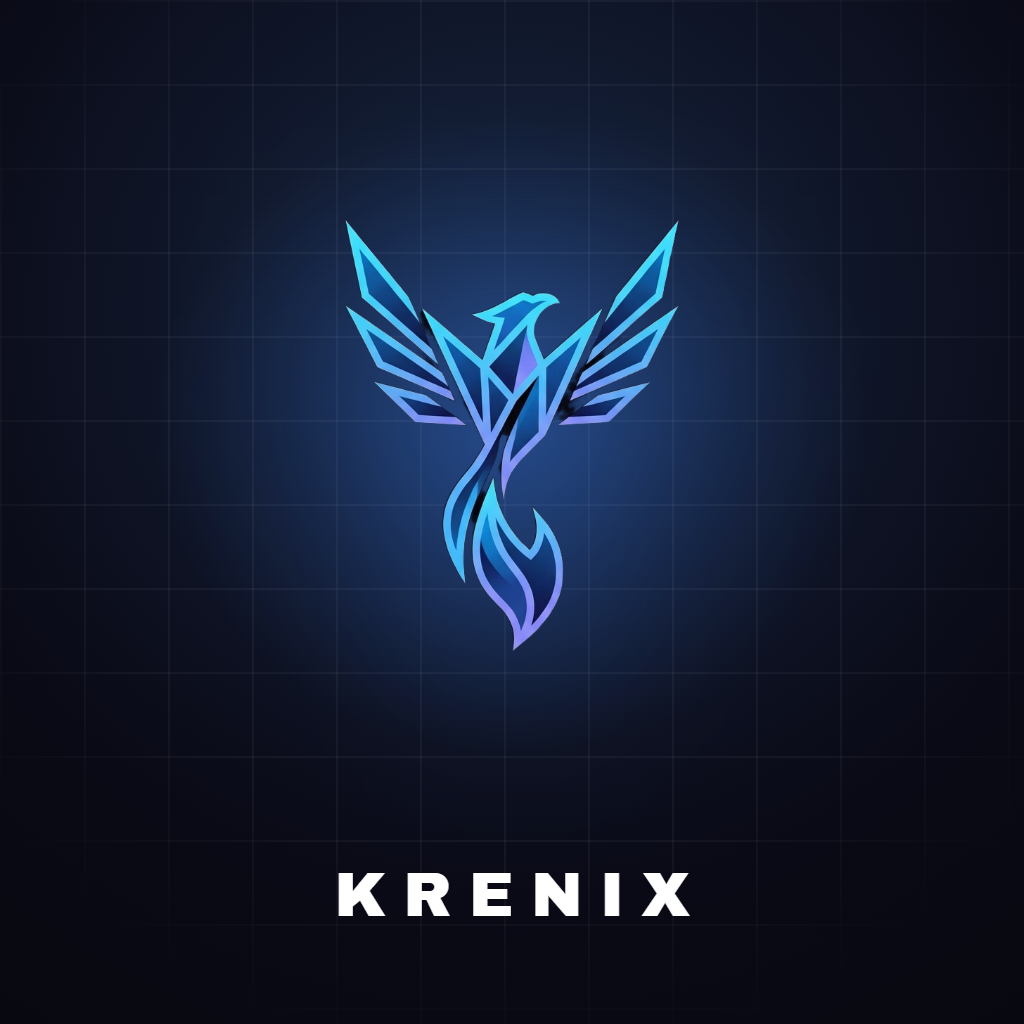
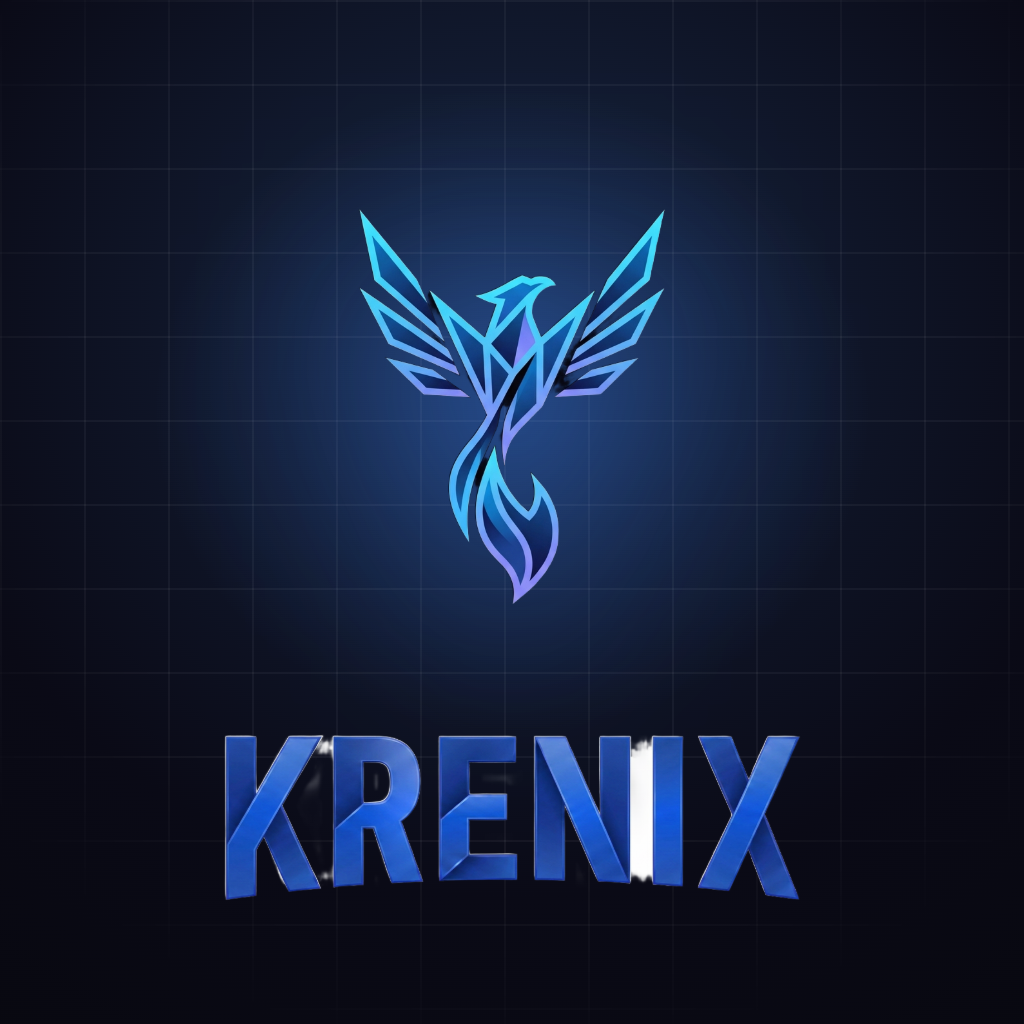
feat(brand): folded-ribbon KRENIX wordmark (Netflix-style crease), royal blue
Replaces the flat Archivo Black text wordmark with folded-paper 'ribbon'
artwork (diagonal crease/fold lines per letter, like the Netflix N), in a
deeper royal blue — generated + recolored via Higgsfield, white bg removed and
trimmed to a transparent public/brand/krenix-wordmark.png.

- KrenixLogo renders the phoenix mark + wordmark image (both next/image).
- Removed the now-unused Archivo Black font from the root layout.
- Regenerated lockup / profile / cover with the new wordmark.

Changed region(s): [[0.2188, 0.7188, 0.7812, 0.9062], [0.3438, 0.2188, 0.6562, 0.625]]

diff --git a/src/app/page.tsx b/src/app/page.tsx
@@ -4,9 +4,9 @@ import { motion, useInView, AnimatePresence } from 'framer-motion'
 import { useRef, useState, useEffect } from 'react'
 import Link from 'next/link'
 import {
-  ArrowRight, Check, ChevronDown,
+  ArrowRight, Check, ChevronDown, ChevronRight,
   ShoppingBag, BarChart3, Star, MessageCircle, CreditCard, Layers,
-  CheckCircle2, Clock,
+  CheckCircle2, Clock, Rocket, Building2, Globe2,
 } from 'lucide-react'
 import KrenixLogo from '@/components/ui/KrenixLogo'
 import { IconStore, IconAIPage, IconChatbot, IconRocket, IconPackage, IconAnalytics } from '@/components/ui/KrenixIcons'
@@ -228,8 +228,8 @@ function FeatureCard({ icon: Icon, title, desc, preview, delay }: {
 }
 
 // ─── Pricing Card ────────────────────────────────────────────────────────────
-function PricingCard({ plan, price, period, features, highlight, cta }: {
-  plan: string; price: string; period: string; features: string[]; highlight?: boolean; cta: string
+function PricingCard({ plan, price, period, features, missing, highlight, cta }: {
+  plan: string; price: string; period: string; features: string[]; missing?: string[]; highlight?: boolean; cta: string
 }) {
   return (
     <motion.div
@@ -260,6 +260,12 @@ function PricingCard({ plan, price, period, features, highlight, cta }: {
           <li key={f} className="flex items-start gap-2.5 text-xs" style={{ color: 'rgba(255,255,255,0.55)' }}>
             <Check size={13} className="text-blue-500 flex-shrink-0 mt-0.5" />
             {f}
+          </li>
+        ))}
+        {missing?.map(f => (
+          <li key={f} className="flex items-start gap-2.5 text-xs opacity-40">
+            <span className="flex-shrink-0 mt-0.5 w-[13px] text-center text-[10px]">✕</span>
+            <span className="line-through" style={{ color: 'rgba(255,255,255,0.3)' }}>{f}</span>
           </li>
         ))}
       </ul>
@@ -674,31 +680,186 @@ export default function KrenixLanding() {
             className="grid md:grid-cols-3 gap-5"
           >
             <PricingCard plan="Basic" price="15 000 DA" period="paiement unique" cta="Commencer" features={[
-              'Boutique en ligne complète', 'Sous-domaine krenix.store', '3 thèmes inclus',
-              'Gestion commandes & produits', '5 crédits IA', 'Support email',
+              '5 crédits IA (à vie)',
+              'Boutique en ligne',
+              'Thème par défaut',
+              '10 produits max',
+              '1 landing page IA',
+              'Export Excel commandes',
+            ]} missing={[
+              'Thèmes niches',
+              'Chatbot IA',
+              'Pixels publicitaires',
+              'Domaine personnalisé',
+              'Landing pages illimitées',
             ]} />
             <PricingCard plan="Pro" price="3 000 DA" period="/mois" cta="Passer au Pro" features={[
-              'Tout du plan Basic', '20 crédits IA / mois', 'Thèmes Pro débloqués',
-              'Domaine personnalisé', 'Statistiques avancées', 'Support prioritaire',
+              '20 crédits IA/mois',
+              'Produits illimités',
+              '10 landing pages IA/mois',
+              'Thème niche Beauty & Fashion inclus',
+              'Export Excel commandes',
+              'Calculateur de profit',
+            ]} missing={[
+              'Chatbot IA',
+              'Pixels publicitaires',
+              'Domaine personnalisé',
             ]} />
             <PricingCard plan="Ultimate" price="9 000 DA" period="/mois" highlight cta="Passer à Ultimate" features={[
-              'Tout du plan Pro', '100 crédits IA / mois', 'Chatbot darija (150 msgs/j)',
-              'Commandes auto via chatbot', 'Tous les thèmes', 'Support 7j/7',
+              '100 crédits IA/mois',
+              'Produits illimités',
+              'Landing pages illimitées',
+              'Tous les 5 thèmes niches',
+              'Chatbot IA (150 msg/jour)',
+              'Facebook & TikTok Pixel (manuel)',
+              'Calculateur de profit',
+              'Intégrations livraison',
+              '2 membres d\'équipe',
+            ]} missing={[
+              'Domaine personnalisé',
             ]} />
           </motion.div>
 
-          <motion.div variants={fadeUp} initial="hidden" whileInView="visible" viewport={{ once: true }}
-            className="flex flex-col sm:flex-row items-center justify-center gap-3 mt-8">
-            <p className="text-xs" style={{ color: 'rgba(255,255,255,0.3)' }}>
-              Vous avez besoin de plus ? Découvrez nos offres Growth, Business, Agency et Enterprise.
-            </p>
-            <Link
-              href="/pricing"
-              className="flex items-center gap-1.5 px-4 py-2 rounded-xl text-xs font-semibold whitespace-nowrap transition-all hover:opacity-80"
-              style={{ background: 'rgba(245,158,11,0.12)', border: '1px solid rgba(245,158,11,0.3)', color: '#F59E0B' }}
-            >
-              Voir l'offre personnalisée <ArrowRight size={12} />
-            </Link>
+          {/* ── Sur Mesure section ── */}
+          <motion.div variants={fadeUp} initial="hidden" whileInView="visible" viewport={{ once: true }} className="mt-16">
+            <div className="text-center mb-8">
+              <span className="px-3 py-1.5 rounded-full text-xs font-bold" style={{ background: 'rgba(139,92,246,0.1)', color: '#A78BFA', border: '1px solid rgba(139,92,246,0.2)' }}>
+                Plans sur mesure
+              </span>
+              <h3 className="text-2xl font-black text-white mt-3" style={{ fontFamily: 'var(--font-heading)' }}>Pour aller plus loin</h3>
+              <p className="text-xs mt-1" style={{ color: 'rgba(255,255,255,0.35)' }}>
+                Intégrations avancées, multi-boutiques, agences &amp; grandes enseignes
+              </p>
+            </div>
+
+            <div className="grid grid-cols-1 md:grid-cols-2 gap-5">
+              {[
+                {
+                  id: 'growth',
+                  name: 'Growth',
+                  price: '12 000',
+                  period: '/mois',
+                  icon: Rocket,
+                  color: '#10B981',
+                  tagline: 'Pour les marchands qui veulent scaler',
+                  highlights: [
+                    'Tout Ultimate +',
+                    '200 crédits IA/mois',
+                    'Chatbot IA 300 msg/jour',
+                    'Domaine personnalisé',
+                    '2 membres d\'équipe',
+                    'Statistiques de vente avancées',
+                    'Rapport mensuel automatique',
+                    'Support prioritaire par email',
+                  ],
+                },
+                {
+                  id: 'business',
+                  name: 'Business',
+                  price: '20 000',
+                  period: '/mois',
+                  icon: Building2,
+                  color: '#8B5CF6',
+                  tagline: 'Pour les boutiques sérieuses',
+                  highlights: [
+                    'Tout Growth +',
+                    '400 crédits IA/mois',
+                    'Impression étiquettes livraison auto',
+                    'A/B testing landing pages',
+                    'CRM clients & historique achats',
+                    'SMS confirmation automatique',
+                    '5 membres d\'équipe',
+                    '3 domaines personnalisés',
+                  ],
+                },
+                {
+                  id: 'agency',
+                  name: 'Agency',
+                  price: '35 000',
+                  period: '/mois',
+                  icon: Globe2,
+                  color: '#EF4444',
+                  tagline: 'Pour les agences & drop multi-boutiques',
+                  highlights: [
+                    'Tout Business +',
+                    '800 crédits IA/mois',
+                    'Impression étiquettes auto',
+                    'Vue agence — gérer toutes les boutiques en 1 dashboard',
+                    '5 boutiques simultanées',
+                    'Membres illimités',
+                    'Accès API',
+                    'Manager de compte dédié',
+                  ],
+                },
+                {
+                  id: 'enterprise',
+                  name: 'Enterprise',
+                  price: '60 000',
+                  period: '/mois',
+                  icon: Star,
+                  color: '#F59E0B',
+                  tagline: 'Infrastructure dédiée & développement custom',
+                  highlights: [
+                    'Tout Agency +',
+                    '1 500 crédits IA/mois (affichés comme illimités)',
+                    'Infrastructure dédiée (non partagée)',
+                    'White label complet — votre logo sur la plateforme',
+                    'Boutiques illimitées',
+                    'Développement de fonctionnalités sur mesure',
+                    'SLA garanti 99.9%',
+                    'Ligne directe WhatsApp (prioritaire)',
+                  ],
+                },
+              ].map(plan => {
+                const Icon = plan.icon
+                return (
+                  <motion.div
+                    key={plan.id}
+                    variants={fadeUp}
+                    whileHover={{ y: -4 }}
+                    className="flex flex-col rounded-2xl p-6 gap-4 transition-all"
+                    style={{
+                      border: '1px solid rgba(255,255,255,0.08)',
+                      background: 'linear-gradient(135deg, #111118, #0D0D16)',
+                    }}
+                  >
+                    <div className="flex items-center justify-between">
+                      <div className="flex items-center gap-3">
+                        <div className="w-10 h-10 rounded-xl flex items-center justify-center"
+                          style={{ background: plan.color + '15' }}>
+                          <Icon size={18} style={{ color: plan.color }} />
+                        </div>
+                        <div>
+                          <p className="text-white font-bold">{plan.name}</p>
+                          <p className="text-xs" style={{ color: 'rgba(255,255,255,0.35)' }}>{plan.tagline}</p>
+                        </div>
+                      </div>
+                      <div className="text-right">
+                        <p className="text-white font-black text-xl">{plan.price}</p>
+                        <p className="text-xs" style={{ color: 'rgba(255,255,255,0.25)' }}>DZD{plan.period}</p>
+                      </div>
+                    </div>
+
+                    <ul className="space-y-2">
+                      {plan.highlights.map(h => (
+                        <li key={h} className="flex items-start gap-2 text-xs">
+                          <ChevronRight size={13} className="flex-shrink-0 mt-0.5" style={{ color: plan.color }} />
+                          <span style={{ color: 'rgba(255,255,255,0.5)' }}>{h}</span>
+                        </li>
+                      ))}
+                    </ul>
+
+                    <Link
+                      href="/auth/register"
+                      className="w-full py-2.5 rounded-xl text-sm font-bold text-center transition-all hover:opacity-90 block text-white"
+                      style={{ background: '#3B82F6' }}
+                    >
+                      Choisir {plan.name}
+                    </Link>
+                  </motion.div>
+                )
+              })}
+            </div>
           </motion.div>
         </div>
       </section>

diff --git a/src/components/ui/KrenixLogo.tsx b/src/components/ui/KrenixLogo.tsx
@@ -2,44 +2,30 @@ import Image from 'next/image'
 
 interface KrenixLogoProps {
   height?: number
-  /** Wordmark colour. Default white. */
+  /** Accepted for API compatibility (white-label); brand art is fixed. */
   color?: string
   className?: string
   /** Mark only, no wordmark. */
   compact?: boolean
-  /** Accepted for API compatibility (white-label); the phoenix mark is fixed brand art. */
+  /** Accepted for API compatibility (white-label); brand art is fixed. */
   mono?: boolean
 }
 
-// Krenix identity — the rising blue phoenix (Krenix → phoeNIX: a merchant rising
-// from nothing into a thriving store) paired with the KRENIX wordmark in Archivo
-// Black — a heavy, high-impact geometric face (distinct from the app's Syne).
-export default function KrenixLogo({
-  height = 24, color = '#fff', className = '', compact = false,
-}: KrenixLogoProps) {
+// Krenix identity — the rising blue phoenix (Krenix → phoeNIX) + the KRENIX
+// wordmark rendered as folded-ribbon artwork (Netflix-style crease treatment).
+export default function KrenixLogo({ height = 24, className = '', compact = false }: KrenixLogoProps) {
   const mark = (
-    <Image
-      src="/brand/krenix-mark.png"
-      alt="Krenix"
-      width={height}
-      height={height}
-      style={{ objectFit: 'contain', flexShrink: 0, height, width: 'auto' }}
-    />
+    <Image src="/brand/krenix-mark.png" alt="Krenix" width={height} height={height}
+      style={{ objectFit: 'contain', flexShrink: 0, height, width: 'auto' }} />
   )
 
   if (compact) return <span className={className} style={{ display: 'inline-flex' }}>{mark}</span>
 
   return (
-    <span className={className} style={{ display: 'inline-flex', alignItems: 'center', gap: Math.round(height * 0.12) }}>
+    <span className={className} style={{ display: 'inline-flex', alignItems: 'center', gap: Math.round(height * 0.14) }}>
       {mark}
-      <span style={{
-        fontFamily: 'var(--font-logo), sans-serif',
-        letterSpacing: '0.06em',
-        fontSize: Math.round(height * 0.66),
-        lineHeight: 1,
-        color,
-        whiteSpace: 'nowrap',
-      }}>KRENIX</span>
+      <Image src="/brand/krenix-wordmark.png" alt="Krenix" width={1077} height={342}
+        style={{ height: Math.round(height * 0.92), width: 'auto', objectFit: 'contain' }} />
     </span>
   )
 }

diff --git a/src/app/layout.tsx b/src/app/layout.tsx
@@ -1,11 +1,9 @@
 import type { Metadata, Viewport } from "next";
-import { Syne, DM_Sans, Archivo_Black } from "next/font/google";
+import { Syne, DM_Sans } from "next/font/google";
 import "./globals.css";
 
 const syne = Syne({ subsets: ["latin"], variable: "--font-heading", weight: ["400", "500", "600", "700", "800"] });
 const dmSans = DM_Sans({ subsets: ["latin"], variable: "--font-sans", weight: ["300", "400", "500", "600"] });
-// Wordmark-only face (KrenixLogo) — bold geometric, distinct from the body heading font.
-const archivoBlack = Archivo_Black({ subsets: ["latin"], variable: "--font-logo", weight: ["400"] });
 
 export const metadata: Metadata = {
   title: "Krenix — Créez votre boutique en ligne",
@@ -26,7 +24,7 @@ export default function RootLayout({
   children: React.ReactNode;
 }) {
   return (
-    <html lang="fr" className={`${syne.variable} ${dmSans.variable} ${archivoBlack.variable}`} data-scroll-behavior="smooth">
+    <html lang="fr" className={`${syne.variable} ${dmSans.variable}`} data-scroll-behavior="smooth">
       <body className="antialiased overflow-x-hidden">{children}</body>
     </html>
   );